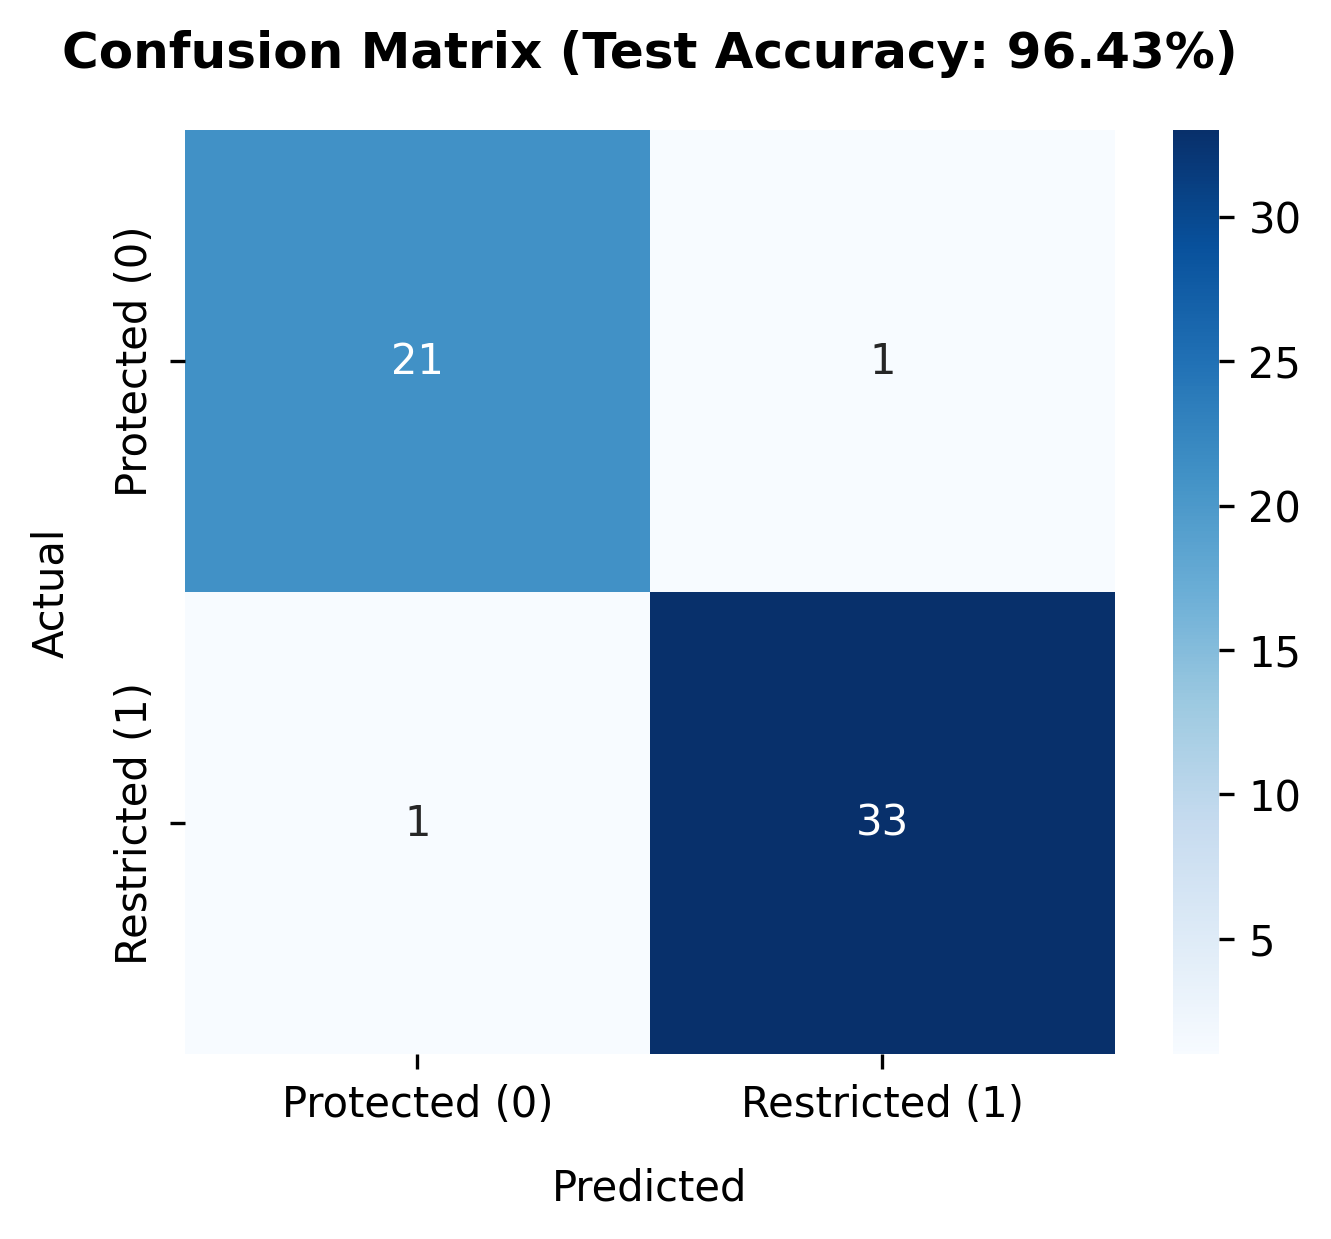
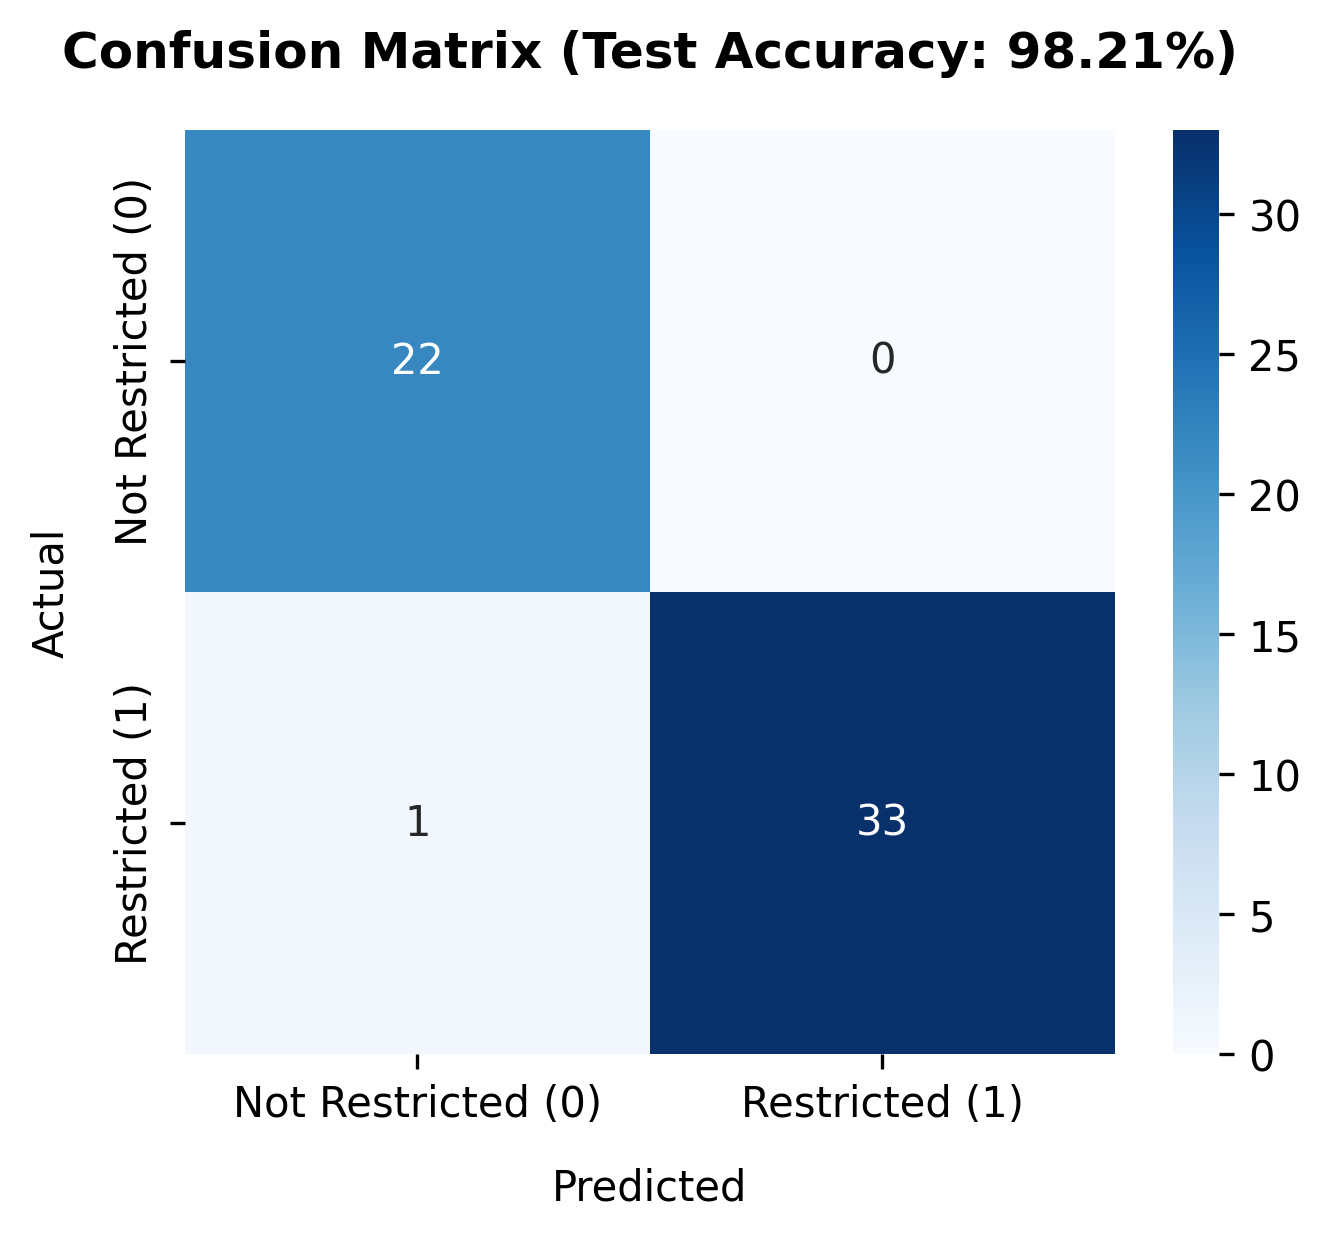
rerun to get cm

diff --git a/src/app/nn.py b/src/app/nn.py
@@ -129,7 +129,7 @@ test_data_nn = pd.read_csv(os.path.join(nn_rec, 'nn_test_display.csv'))
 # ==============================================================================
 # Code
 # ==============================================================================
-model_code_url_nn = "https://github.com/amberteetsel/maternal-health"   ## PLACEHOLDER - REPLACE!!!
+model_code_url_nn = "https://github.com/amberteetsel/maternal-health/blob/cd0a7ac135275dfde3d2a46195d2439ebb2be823/src/models/nn_policy.py"   ## PLACEHOLDER - REPLACE!!!
 
 # ==============================================================================
 # Results
